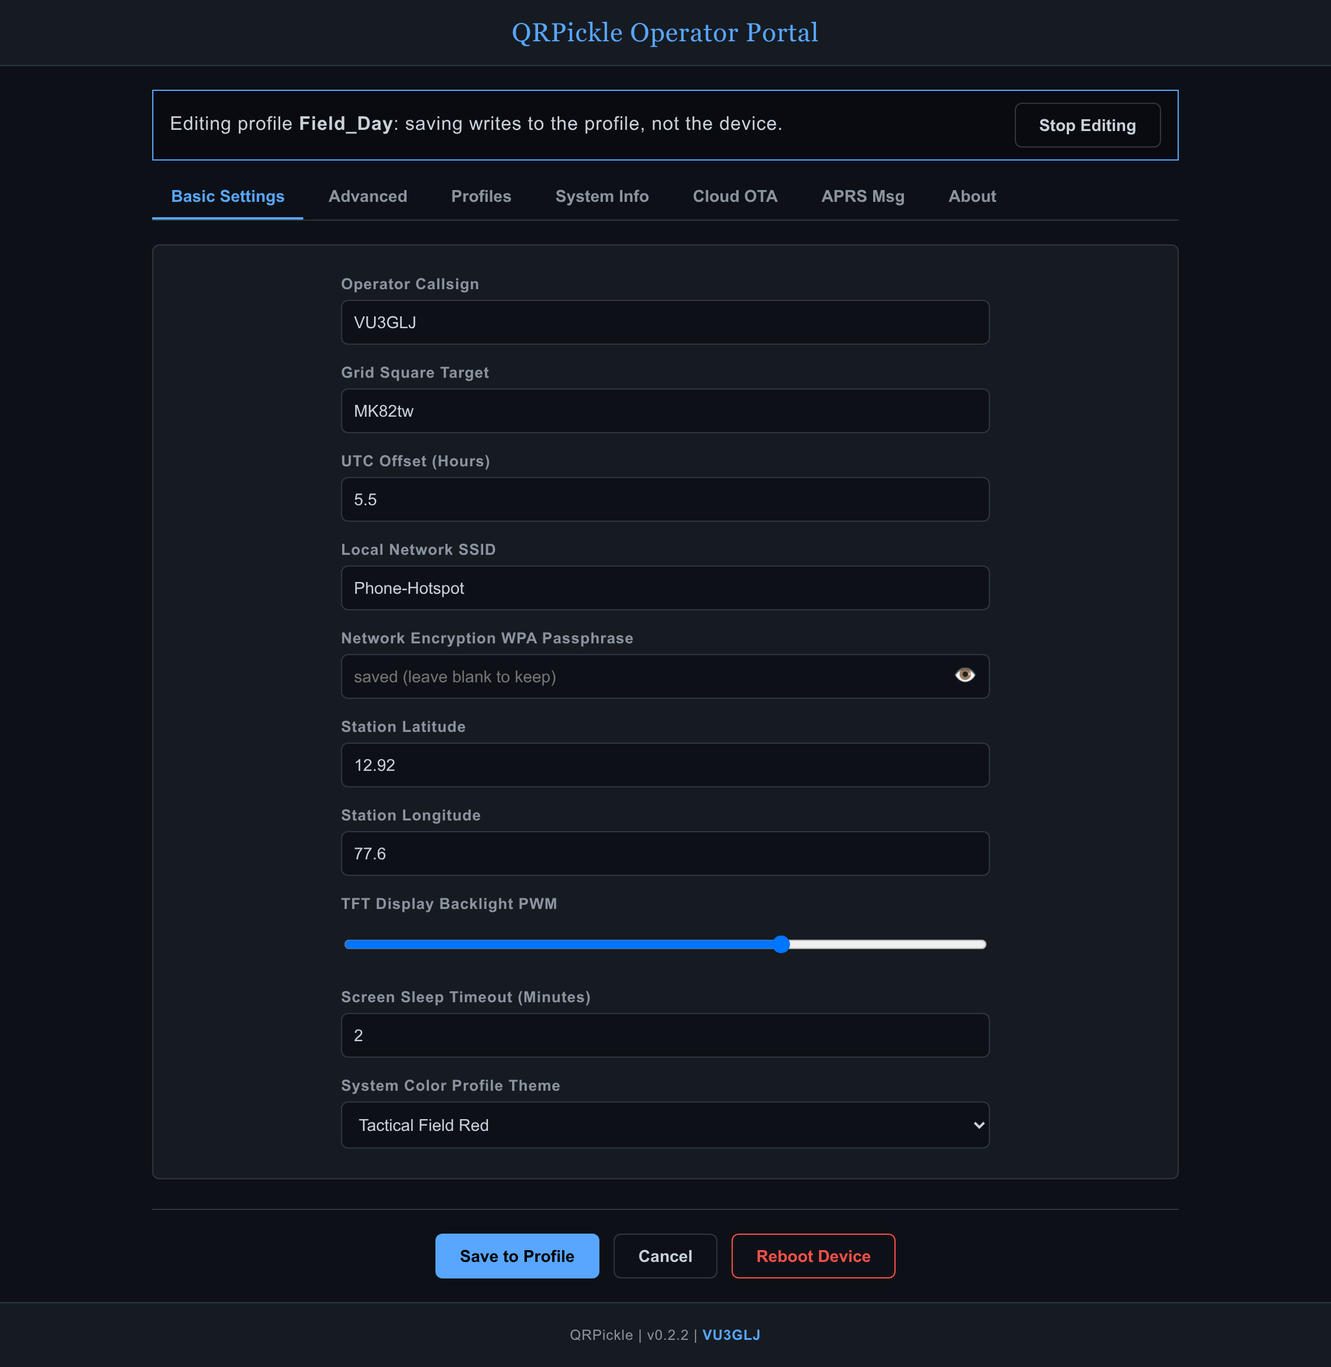
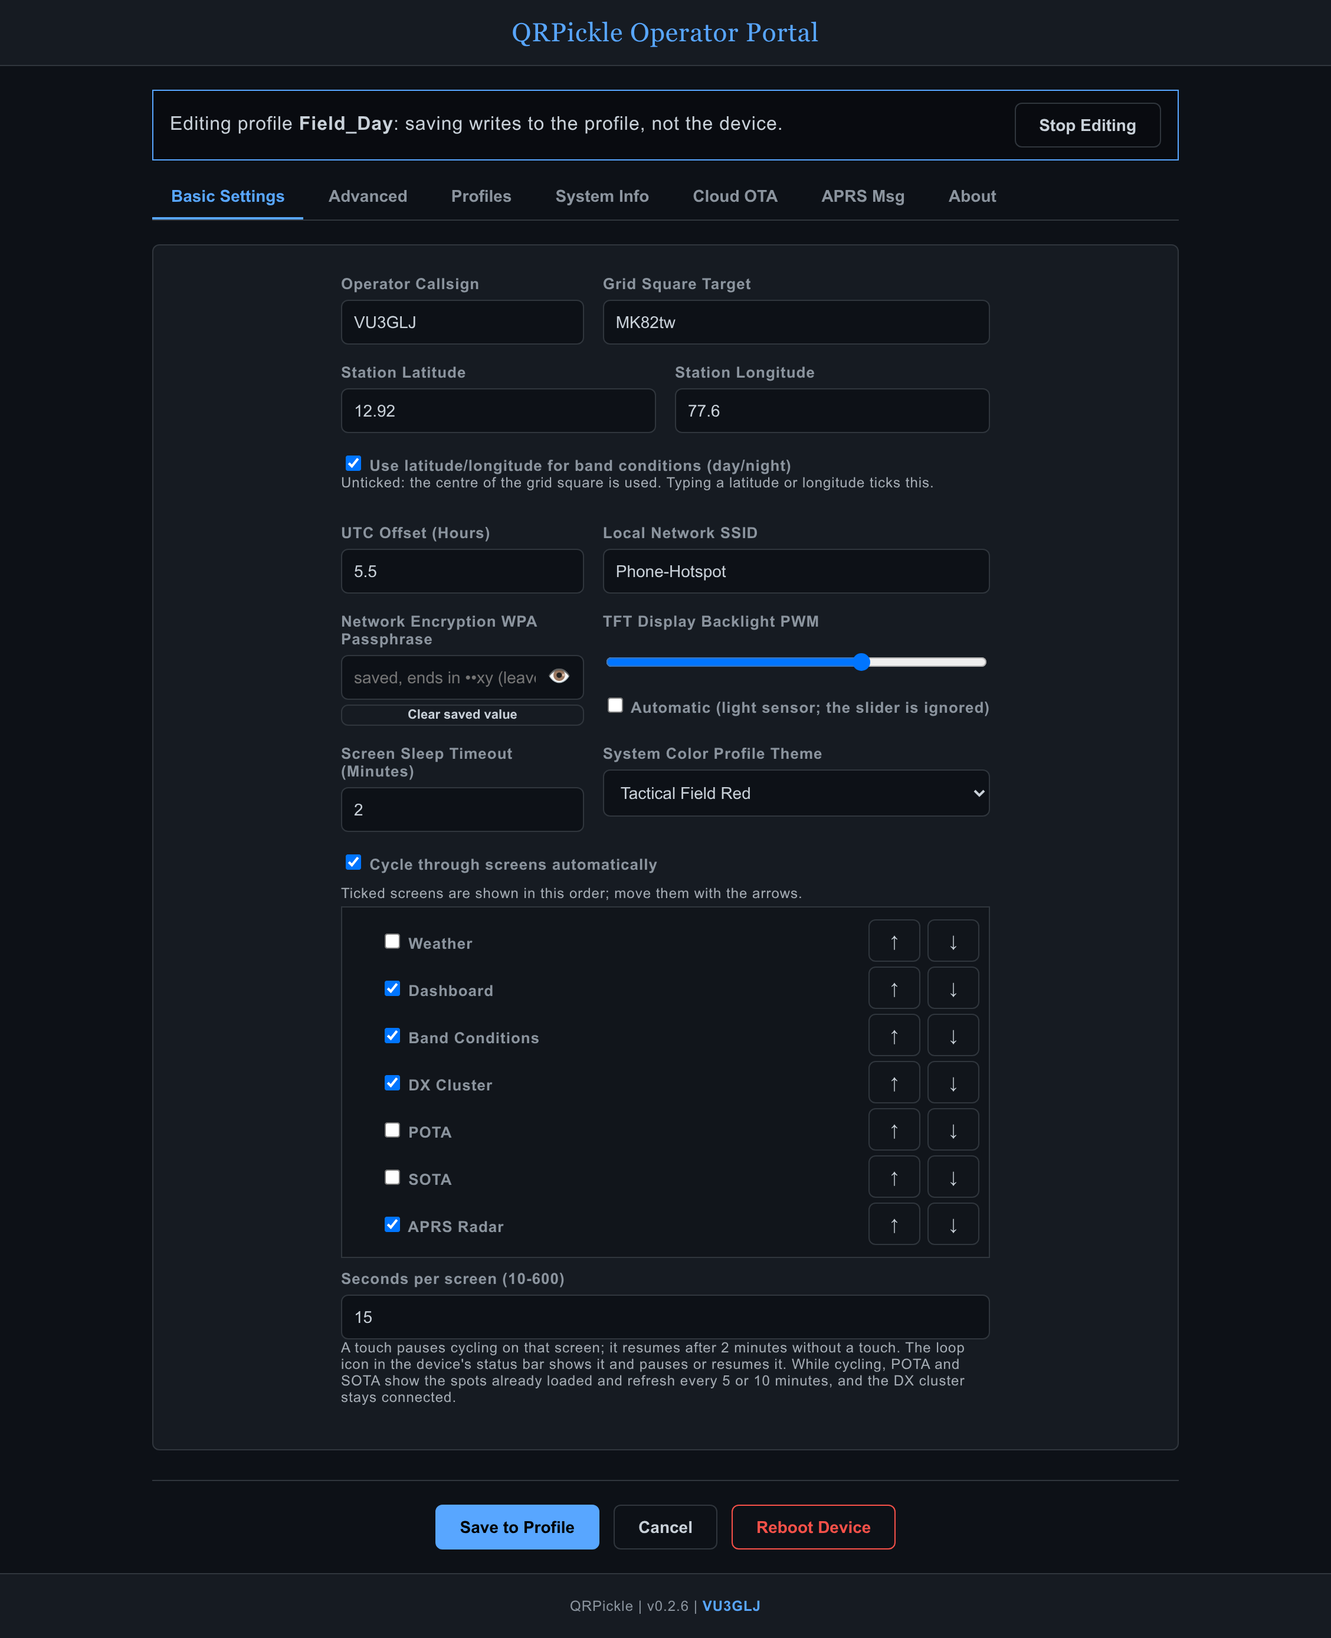
v0.2.6: version, changelog, docs, web console screenshots
FW_VERSION v0.2.6. Changelog, README, setup guide and site for the
cycling order, saved-secret hints, DX page, corner layout and feed
retry/sources. Tracker: v0.2.6 items done; the screenshot build's
xOTA restarts and network wedge moved to Watching; the amber LED
confirmed by the owner. Web console screenshots from the mock (demo
data, demo secret endings "xy"; the mock learned the new fields).

diff --git a/web-installer/pages/home.html b/web-installer/pages/home.html
@@ -20,7 +20,7 @@
   <li><strong>Band conditions:</strong> 11 bands rated for day and night at your location, greyline and sunrise/sunset, from HAMQSL.com solar data.</li>
   <li><strong>Satellites:</strong> the next passes of popular amateur satellites over your station, ISS SSTV events and school contacts, with an LED reminder.</li>
   <li><strong>Weather and clock:</strong> local and UTC time, an optional indoor sensor, OpenWeather conditions and forecast.</li>
-  <li><strong>Made for the field:</strong> screen cycling, 7 themes including red and E-Ink styles, automatic brightness, a status LED.</li>
+  <li><strong>Made for the field:</strong> screen cycling in your order, 7 themes including red and E-Ink styles, automatic brightness, a status LED.</li>
   <li><strong>Your own logos:</strong> a club logo or callsign badge on the start screen, uploaded in the web console.</li>
   <li><strong>Easy to run:</strong> a web console for every setting, profiles for home and field, updates over WiFi.</li>
   <li><strong>Private and open:</strong> passes and band ratings are worked out on the device, your location stays there; MIT-licensed, <a href="https://github.com/bmp/QRPickle">source on GitHub</a>.</li>

diff --git a/tools/webui_screenshots/mock_server.py b/tools/webui_screenshots/mock_server.py
@@ -22,7 +22,8 @@ META = {"fw_name": "QRPickle", "fw_version": FW_VERSION, "author_call": "VU3GLJ"
 CONFIG = {
     **META,
     "callsign": "VU3GLJ", "grid": "MK82tw", "ssid": "Shack-WiFi",
-    "password": "", "password_set": True, "apikey": "", "apikey_set": True,
+    # Demo tails ("xy"): the screenshots never show a real secret's ending.
+    "password": "", "password_set": True, "password_tail": "xy", "apikey": "", "apikey_set": True, "apikey_tail": "xy",
     "lat": 12.92, "lon": 77.60, "offset": 5.5, "brightness": 180, "auto_bright": False,
     "theme_id": 0, "timeout": 5, "fc_slots": 15,
     "dx_url_p": "dxspider.co.uk", "dx_port_p": 7300, "dx_url_s": "dxc.w6bgr.com", "dx_port_s": 7373,
@@ -30,8 +31,12 @@ CONFIG = {
     "aprs_cmt": "QRPickle on the CYD", "aprs_icn": "/[",
     "aprs_macros": ["QRT. Packing up gear.", "CQ POTA, spotting active now.", "All OK, monitoring frequency.",
                     "Changing bands shortly.", "Testing APRS-IS link."],
-    "hamalert_pass": "", "hamalert_pass_set": True,
+    "hamalert_pass": "", "hamalert_pass_set": True, "hamalert_pass_tail": "xy",
+    "latlon_set": True, "band_groups": 31, "solar_url": "",
+    "cycle_en": True, "cycle_screens": 0x4B, "cycle_s": 15, "cycle_order": "2,0,1,3,4,5,6",
+    "space_url": "", "sat_categories": 15, "sat_min_el": 10, "pass_alert_en": True, "pass_alert_min": 30,
 }
+LOGOS = {"left": {"custom": True, "w": 60, "h": 45}, "right": {"custom": False}}
 PROFILES = {
     "Home": {},
     "Field_Day": {"ssid": "Phone-Hotspot", "aprs_ssid": 9, "aprs_icn": "\\F", "theme_id": 1, "timeout": 2},
@@ -67,6 +72,7 @@ class Handler(BaseHTTPRequestHandler):
             "/api/profiles": lambda: list(PROFILES),
             "/api/cloud_ota/check": lambda: CLOUD_OTA,
             "/api/aprs/messages": lambda: APRS_MESSAGES,
+            "/api/logos": lambda: LOGOS,
         }
         if url.path in routes:
             return self.send(routes[url.path]())

diff --git a/docs/TASKS.md b/docs/TASKS.md
@@ -16,6 +16,8 @@ The web console checks are automated (`tools/webui_e2e/`, 31/31 on 2026-10-09). 
 - [ ] **Release build heap low point (2026-11-04):** v0.2.5 after 5.7 days up showed `heap_min_free` 500 B and `largest_block_min` 2,292 B (`/api/status`), below the ~4 KB boot minimum; it kept running. Find which session makes the low point (watch `mem` across a day).
 - [ ] **DX screen freeze (review 4.6): probably fixed, keep an eye on it.** Likely cause found 2026-10-10: unsafe DNS in the HTTPS fetches corrupted lwIP (crash in dns_tmr, or a dead network while "connected"); fixed with SafeClient/SafeTlsClient. Verified: xOTA opened 10x and a 5-min DX-screen test with an HTTPS fetch every 15 s (20/20, no crash, no reboot). If a freeze is ever seen again, capture with `tools/serial_soak.py` and decode the backtrace.
 
+- [ ] **Screenshot build: restarts at xOTA and network wedge (found 2026-11-04; moved to Watching):** opening xOTA during a capture run restarted `cyd-screens` once per theme (6/6; the capture recovers). Not seen right after boot without the capture buffer; the release build ran 5.7 days before. Later in the same session the web server stopped answering (ping fine, HTTP dead, no watchdog restart) during Slate Dark, after ~2 h of captures; reset by hand. **Seen over USB 2026-11-04 (afternoon):** after ~1,250 screenshot requests the network stack wedged while the firmware kept running: no ping, every DNS lookup failed (`[Net] DNS failed for rotate.aprs.net`, `hamalert.org`), but no `[Wi-Fi] Link dropped` event, so the 30 s WiFi watchdog never triggered; the main loop and satellites went on. A USB reset fixed it. Idea: a network health check (DNS or gateway ping failing for N minutes while "connected") that restarts WiFi, then the device. Logs: `release/logs/2026-11-04-wedge-*.log`. Needs the CYD on USB for the `[CRASHLOG]`/backtrace.
+
 ## Done in v0.2.3
 - [x] **Favicon for the web console:** the International amateur radio symbol (public domain), `data/www/favicon.svg`, 853 B gzipped, served behind login; recorded in `assets/img/SOURCES.md`.
 - [x] **Library and platform updates:** LVGL 9.6.0, ESPAsyncWebServer 3.12.1, AsyncTCP 3.5.0; TFT_eSPI 2.5.43, ArduinoJson 7.4.3, Adafruit BME280 2.3.0 and XPT2046 (f956c5d) are current. espressif32 7.1.3 evaluated and not adopted: for Arduino it ships the same core 2.0.17 (`framework-arduinoespressif32` 4.20017, same source hash dcc1105b), GCC 8.4 and esptool 4.11 as 6.13.0; its ESP-IDF 6 / GCC 15 changes apply only to the pure ESP-IDF framework. It builds and passes every guard (image 384 B smaller, same DRAM). A real step up (Arduino 3 / IDF 5) would mean the pioarduino platform and a port: a separate project.
@@ -65,19 +67,18 @@ Order: data source -> rating model -> bands -> band-conditions screen -> privacy
 - [ ] **TLS errors as numeric codes (re-check in the spike)** (moved here by the owner 2026-10-12: the framework's `ssl_client.cpp` also uses the error-text table, so the saving needs a framework patch; re-evaluate with the port) (~15 KB flash): log mbedTLS's standard negative hex codes instead of `mbedtls_strerror`'s text table, keep text for the few common ones (`-0x7F00` out of memory, `-0x2700` certificate verification failed, timeouts, connection closed) and document them in `docs/DEBUGGING.md`.
 
 ## Planned for v0.2.6 (platform-neutral items; owner 2026-10-12)
-- [ ] **Saved credentials: safe preview (owner 2026-10-12):** today secrets (WiFi password, OpenWeather key, APRS passcode, HamAlert password) are write-only in the web console (`*_set` flags) and never in backups. Each saved secret shows as "saved, ends in ••4f" (the last 2 characters from the device, never more) with *Change* and *Clear*.
-- [ ] **Cycling order in the web console (owner 2026-10-12):** the ticked screens in a list the user can reorder (up/down buttons; works on phones too), saved as a new setting `cycle_order` (the 7 screen ids in order, e.g. `0,1,2,3,4,5,6`; config_json + NVS, so profiles and backups carry it; sanitize: a permutation of the known ids, else the default order). `ui/screen_cycle.cpp` walks that order instead of the fixed one. Device Settings unchanged (on/off only). Tests: validation in test_config.
+- [x] **Saved credentials: safe preview (owner 2026-10-12; done 2026-11-04: `_tail` for 6+ characters, Clear, no tails in backups):** today secrets (WiFi password, OpenWeather key, APRS passcode, HamAlert password) are write-only in the web console (`*_set` flags) and never in backups. Each saved secret shows as "saved, ends in ••4f" (the last 2 characters from the device, never more) with *Change* and *Clear*.
+- [x] **Cycling order in the web console (owner 2026-10-12):** the ticked screens in a list the user can reorder (up/down buttons; works on phones too), saved as a new setting `cycle_order` (the 7 screen ids in order, e.g. `0,1,2,3,4,5,6`; config_json + NVS, so profiles and backups carry it; sanitize: a permutation of the known ids, else the default order). `ui/screen_cycle.cpp` walks that order instead of the fixed one. Device Settings unchanged (on/off only). Tests: validation in test_config.
 - [ ] **Web console screenshots** (deferred from v0.2.5): Satellites block, cycling (with the new order list), auto-brightness, credentials (`docs/screenshots/`, tools/webui_screenshots).
-- [ ] **Satellite feed sources as a list (owner 2026-10-13):** replace the builder's hard-coded sources with `tools/space_feed/sources.yaml`, one entry per source: what it provides (satellite list, frequencies, orbits, events), URL, format (a parser each: SatNOGS JSON, TLE text, ARISS contacts page, ARISS SSTV page, a simple events JSON for own events), timeout, categories to take (FM, linear, SSTV, voice, APRS), include/exclude by NORAD id, licence and credit text, enabled, and fallbacks (e.g. AMSAT TLEs when CelesTrak fails). The builder reads the list; the feed's credit (and the Space feed page) is built from the sources used. Adding a source = editing the file; own events become a source. Feed format and firmware unchanged. Tests: each parser against saved copies, the list's validation, a fallback when a source fails.
-- [ ] **Installer tests in CI (owner 2026-10-12):** unit tests for the installer page's plan (each mode's images and ranges, the erase question always asked, overlap/size/protected-area checks) and for `make_pages_site.py` (versions.json sizes, manifests, OTA files unchanged), so a repeat of the 2026-10-12 board wipe fails CI.
-- [ ] **Test coverage audit (owner 2026-10-12):** list what each test folder covers against the features and the bug classes in the git log (memory, DNS, quiet window, config validation, parsers, site/installer); add tests for the gaps.
-- [ ] **DX page (owner 2026-10-12):** show "connected, waiting for spots" instead of an empty list after a restart; slim the page (LVGL pool ~87 % on DX, the one-off out-of-memory restart).
-- [ ] **Space feed retry and flash budget (owner 2026-10-12):** retry sooner after a failed TLS fetch at boot (seen 2026-10-12); a size review (85.5 % of the slot, limit 95 %).
-- [ ] **UI consistency (owner 2026-10-12):** one fixed place for the refresh and home buttons on every page; status-bar icons all the same size; checked on every screen and theme (UI guide rule + screenshots).
-- [ ] **Device check (carried over from v0.2.2):** when the device can't reach WiFi, the `QRPickle-Setup` hotspot asks for the admin password (confirmed 2026-10-12) **and the LED stays amber**. Bug found 2026-11-04 in the code: the end of `setup()` and of the splash switched the amber off (dark LED in both hotspot cases); fixed with `boot_done_state()` (test_led). Still to check by eye on the device (owner).
+- [x] **Satellite feed sources as a list (owner 2026-10-13):** replace the builder's hard-coded sources with `tools/space_feed/sources.yaml`, one entry per source: what it provides (satellite list, frequencies, orbits, events), URL, format (a parser each: SatNOGS JSON, TLE text, ARISS contacts page, ARISS SSTV page, a simple events JSON for own events), timeout, categories to take (FM, linear, SSTV, voice, APRS), include/exclude by NORAD id, licence and credit text, enabled, and fallbacks (e.g. AMSAT TLEs when CelesTrak fails). The builder reads the list; the feed's credit (and the Space feed page) is built from the sources used. Adding a source = editing the file; own events become a source. Feed format and firmware unchanged. Tests: each parser against saved copies, the list's validation, a fallback when a source fails.
+- [x] **Installer tests in CI (owner 2026-10-12):** unit tests for the installer page's plan (each mode's images and ranges, the erase question always asked, overlap/size/protected-area checks) and for `make_pages_site.py` (versions.json sizes, manifests, OTA files unchanged), so a repeat of the 2026-10-12 board wipe fails CI.
+- [x] **Test coverage audit (owner 2026-10-12):** list what each test folder covers against the features and the bug classes in the git log (memory, DNS, quiet window, config validation, parsers, site/installer); add tests for the gaps.
+- [x] **DX page (owner 2026-10-12; done 2026-11-04: status line, one label per row, LVGL 49 -> 29.5 KB):** show "connected, waiting for spots" instead of an empty list after a restart; slim the page (LVGL pool ~87 % on DX, the one-off out-of-memory restart).
+- [x] **Space feed retry and flash budget (owner 2026-10-12; done 2026-11-04: 2/5/15 min; review in docs/MEMORY.md):** retry sooner after a failed TLS fetch at boot (seen 2026-10-12); a size review (85.5 % of the slot, limit 95 %).
+- [x] **UI consistency (owner 2026-10-12; done 2026-11-04, layout B: the corner, docs/UI_GUIDE.md; status-bar icons were already one font):** one fixed place for the refresh and home buttons on every page; status-bar icons all the same size; checked on every screen and theme (UI guide rule + screenshots).
+- [x] **Device check (carried over from v0.2.2):** when the device can't reach WiFi, the `QRPickle-Setup` hotspot asks for the admin password (confirmed 2026-10-12) **and the LED stays amber**. Bug found 2026-11-04 in the code: the end of `setup()` and of the splash switched the amber off (dark LED in both hotspot cases); fixed with `boot_done_state()` (test_led). Confirmed on the device by the owner (2026-11-04): the LED stays amber in the setup hotspot.
 - [x] **Theme review (2026-11-04):** all 7 themes captured (`release/shots/v026-after/`, every page and tab). Cause of the faint E-Ink Light home icon: a theme change recoloured only the status bar; the background, home button and menu kept the boot theme until a restart (also: Network page black text on black, dark menu). Fixed with `ui_refresh_theme()`. Left for UI consistency: the home icon crowds the footer refresh buttons (Band Conditions, Satellites, xOTA).
 - [x] **Screenshot build heap (2026-11-04):** the 5 KB band buffer is allocated at the first capture, and the build skips the automatic update check (it took the heap to ~800 B and restarted the device). Free heap ~66 -> ~73 KB, boot minimum 796 -> 6,388 B.
-- [ ] **xOTA restarts the screenshot build (found 2026-11-04):** opening xOTA during a capture run restarted `cyd-screens` once per theme (6/6; the capture recovers). Not seen right after boot without the capture buffer; the release build ran 5.7 days before. Later in the same session the web server stopped answering (ping fine, HTTP dead, no watchdog restart) during Slate Dark, after ~2 h of captures; reset by hand. Needs the CYD on USB for the `[CRASHLOG]`/backtrace.
 - [x] **Compressed splash logos (measured 2026-11-04, dropped):** RLE makes both logos larger (7,554 vs 7,512 B, 5,446 vs 5,412 B; photo-like). LZ4 saves 1,744 B net (decoder included) but needs `LV_BIN_DECODER_RAM_LOAD` and ~13 KB heap while the splash decodes. Not worth it.
 - [x] **Custom splash logos (owner 2026-11-04; done 2026-11-04):** left and/or right logo from the web console (converted in the browser into 60 x 60, checked and stored in LittleFS, built-in as the fallback); a filesystem update in the console keeps profiles and logos; backups include logos. Cost: firmware +4.6 KB (85.9 % -> 86.1 % of the slot), LittleFS up to 24 KB. Checked on the CYD with four real club logos (square, tall SVG, wide JPEG, small PNG).
 

diff --git a/README.md b/README.md
@@ -86,7 +86,7 @@ console and stay on the device.
 | **Network, Settings, Cloud OTA** | WiFi, station and display settings on the device; updates | [GitHub Pages](https://bmp.github.io/QRPickle/ota/ota.json) for updates; time from `pool.ntp.org` |
 
 **On the device**
-* **Screen cycling:** chosen screens in turn (10 s each by default); a touch pauses it, a status-bar icon shows and toggles it.
+* **Screen cycling:** chosen screens in turn, in your order (10 s each by default); a touch pauses it, a status-bar icon shows and toggles it.
 * **Status LED:** setup and network states, a faint pulse when data arrives, a strobe for HamAlert or APRS messages, and a purple signal before ISS SSTV and school-contact passes ([LED Colours](docs/LEDColours.md)).
 * **Themes:** 7 themes in LVGL 9, including Tactical Field Red, Terminal Green and two E-Ink styles.
 * **Display:** sleep timeout, manual or automatic brightness (light sensor).
@@ -94,7 +94,7 @@ console and stay on the device.
 * **Splash logos:** your own logos left and right of the title on the start screen (uploaded in the web console, scaled into 60 x 60; kept across updates and in backups).
 
 **Web console and updates**
-* **Web console:** every setting, profiles (save and switch complete setups for home, mobile and field; download/restore a backup without passwords and keys; a filesystem update keeps profiles and logos), APRS messaging and system information. Digest login; the setup hotspot (`192.168.4.1`) takes over when no network is reachable.
+* **Web console:** every setting, profiles (save and switch complete setups for home, mobile and field; download/restore a backup without passwords and keys; a filesystem update keeps profiles and logos; saved secrets show their last 2 characters and can be cleared), APRS messaging and system information. Digest login; the setup hotspot (`192.168.4.1`) takes over when no network is reachable.
 * **Updates:** firmware upload in the web console, or **Cloud OTA** from GitHub Pages with a mandatory SHA-256 and verified HTTPS. A new image that doesn't come up healthy within 3 boots is rolled back. First installs: the [web installer](https://quixotic.bharathpalavalli.com/QRPickle/install/).
 
 **How it fits on an ESP32 without PSRAM**

diff --git a/CHANGELOG.md b/CHANGELOG.md
@@ -4,7 +4,7 @@ User-facing changes per release, newest first. Each section is also the release 
 
 ## v0.2.6 (unreleased)
 
-Your own splash logos; filesystem updates keep profiles; theme and LED fixes
+Your own splash logos, cycling order, saved-secret hints, a lighter DX page; theme and LED fixes
 
 Updating from v0.2.5: Cloud OTA (device or web console) or upload firmware.bin;
 settings are kept. Then upload littlefs.bin (web console: System Info, "LittleFS
@@ -18,6 +18,11 @@ New
   (System Info, Splash Logos); it is scaled into 60 x 60 in the browser, with a
   preview. Kept across updates and included in backups. A PNG with a
   transparent background looks best.
+- Screen cycling in your order: the web console lists the screens with up and
+  down arrows.
+- Saved passwords and keys show their last 2 characters in the web console
+  ("saved, ends in ••4f"; only for 6 or more characters), and each has a
+  Clear button. Backups still contain no secrets.
 
 Changes
 - A filesystem update in the web console keeps your profiles and logos: it
@@ -26,6 +31,13 @@ Changes
 - Backups include your splash logos.
 - The weather icons are 36 x 36 (were 40 x 40): each fits one 4 KB block of
   the filesystem, which frees 72 KB.
+- The DX Cluster page says what it is doing ("CONNECTED: waiting for
+  spots...") instead of showing an empty list, and needs much less memory
+  (one line per spot).
+- Home and refresh are in the same place on every page (bottom right), and
+  nothing else sits under them.
+- The satellite feed is retried after 2 and 5 minutes when a download fails
+  (it waited 15); its sources are a list (AMSAT orbits when CelesTrak is down).
 
 Fixes
 - Changing the theme now recolours the whole screen at once: the background,
@@ -33,6 +45,7 @@ Fixes
   Light the home icon was faint and the Network page unreadable).
 - The status LED stays amber while the setup hotspot is up, as documented; it
   used to go dark at the end of the start-up.
+- Opening a page while Settings was open left Settings on top.
 
 ## v0.2.5 (2026-10-12)
 

diff --git a/docs/SETUP.md b/docs/SETUP.md
@@ -66,15 +66,17 @@ Network screen always shows the current one, so you can't lock yourself out.
 | Band conditions | Advanced → Solar Data; Dashboard Band Tile Shows | solar data from HAMQSL.com by default; pick the band groups for the dashboard tile |
 | Satellites | Advanced → Satellites | which kinds of satellites, the minimum elevation, the LED alert before SSTV and school-contact passes |
 
-Secrets you save (WiFi password, keys, passcodes) are never shown again in the console; leave a field
-empty to keep the saved value.
+Secrets you save (WiFi password, keys, passcodes) are never shown again in the console: a saved one
+shows "saved, ends in ••xy" (its last 2 characters, for 6 or more), so you can tell which one is
+stored. Leave a field empty to keep the saved value; "Clear saved value" removes it on the next save.
 
 ## 6. On the device
 
 - **Menu** (top-left): every screen. The **home** button (bottom-right) returns to the dashboard.
 - **Settings** (in the menu): callsign, grid, WiFi, brightness (or automatic), theme, screen sleep,
   and APRS, screen cycling and satellite pass alerts on or off.
-- **Screen cycling** (web console, Basic Settings): chosen screens in turn; a touch pauses it.
+- **Screen cycling** (web console, Basic Settings): chosen screens in turn, in the order of the list
+  (move them with the arrows); a touch pauses it.
 - The clock shows `--:--` until the CYD has set its time from the internet; UTC is always right.
 
 ## 7. Save your setup
